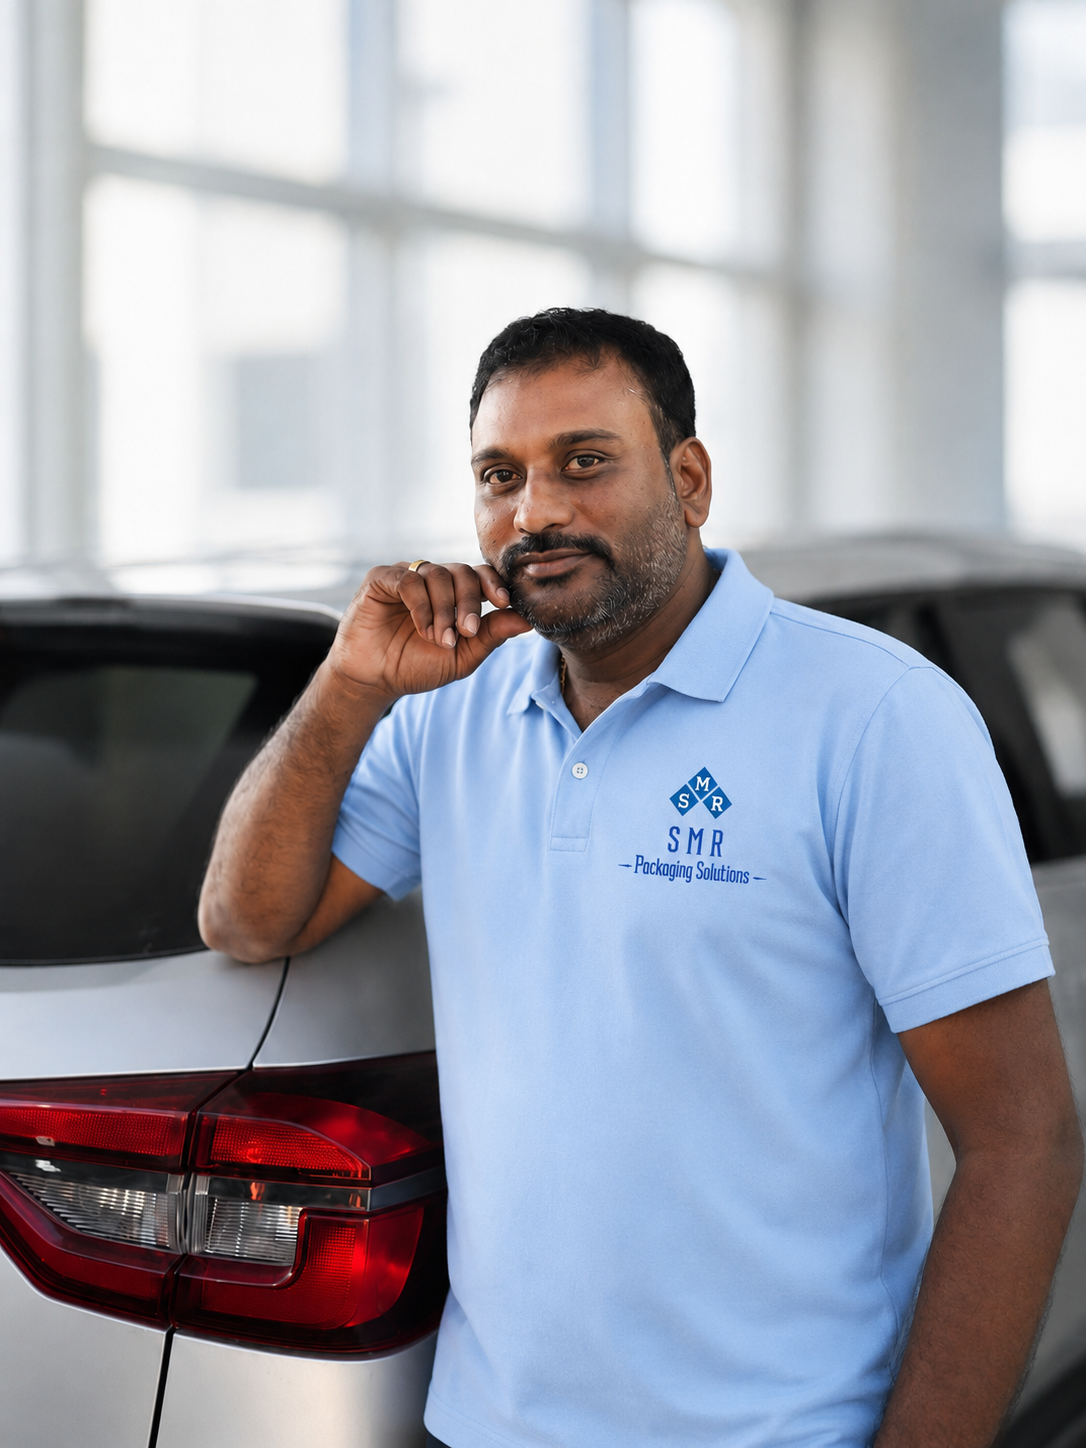
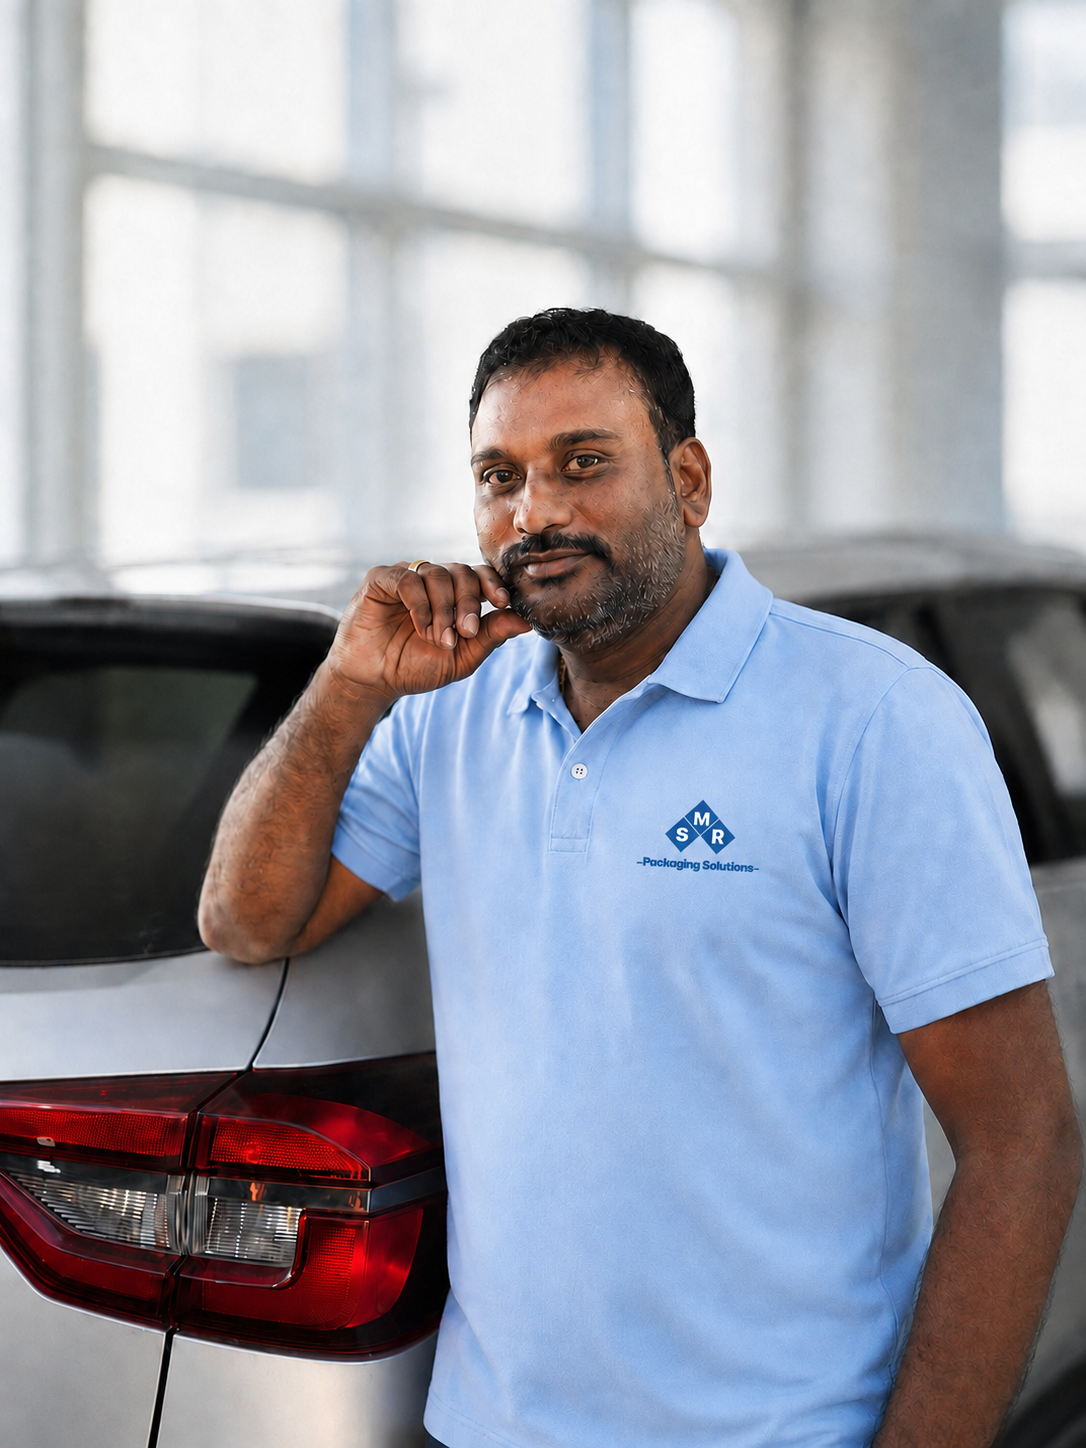
feat: add core components including Hero, Products, About, and supporting UI modals for packaging solutions landing page

diff --git a/src/components/Hero.tsx b/src/components/Hero.tsx
@@ -105,14 +105,16 @@ export const Hero: React.FC<HeroProps> = () => {
             {/* Visual Backplate */}
             <div className="absolute inset-0 bg-gradient-to-br from-blue-100/60 via-white/80 to-sky-50 rounded-3xl border border-white/80 shadow-2xl backdrop-blur-lg -rotate-1 scale-95" />
 
-            {/* Central Industrial Hero Image Showcase */}
-            <div className="relative w-full max-w-sm rounded-2xl overflow-hidden shadow-2xl border-4 border-white transform rotate-1 transition-transform hover:rotate-0 duration-500 z-10">
-              <img
-                src="https://images.unsplash.com/photo-1586528116311-ad8dd3c8310d?auto=format&fit=crop&w=800&q=80"
-                alt="Industrial packaging warehouse stretch film pallets"
-                className="w-full h-80 object-cover"
-              />
-              <div className="absolute inset-0 bg-gradient-to-t from-slate-950/85 via-slate-950/30 to-transparent flex flex-col justify-end p-5 text-white">
+            {/* Central Industrial Hero Image Showcase - Entire image visible */}
+            <div className="relative w-full max-w-sm rounded-2xl overflow-hidden shadow-2xl border-4 border-white transform rotate-1 transition-transform hover:rotate-0 duration-500 z-10 bg-slate-950">
+              <div className="h-64 sm:h-72 w-full p-2 flex items-center justify-center bg-slate-900">
+                <img
+                  src="https://images.unsplash.com/photo-1586528116311-ad8dd3c8310d?auto=format&fit=crop&w=800&q=80"
+                  alt="Industrial packaging warehouse stretch film pallets"
+                  className="w-full h-full object-contain rounded-xl"
+                />
+              </div>
+              <div className="p-4 bg-slate-950 text-white border-t border-slate-800">
                 <div className="flex items-center gap-1 text-amber-400 mb-1">
                   <i className="fi fi-sr-star text-sm text-amber-400" />
                   <i className="fi fi-sr-star text-sm text-amber-400" />
@@ -120,8 +122,8 @@ export const Hero: React.FC<HeroProps> = () => {
                   <i className="fi fi-sr-star text-sm text-amber-400" />
                   <i className="fi fi-sr-star text-sm text-amber-400" />
                 </div>
-                <h3 className="font-bold text-lg font-montserrat-700">Industrial Warehouse Consumables</h3>
-                <p className="text-xs text-slate-300 font-tiempos-italic">Kancheepuram & Greater Chennai Supply Chain</p>
+                <h3 className="font-bold text-base font-montserrat-700 text-white">Industrial Warehouse Consumables</h3>
+                <p className="text-xs text-slate-400">Kancheepuram & Greater Chennai Supply Chain</p>
               </div>
             </div>
 

diff --git a/src/components/About.tsx b/src/components/About.tsx
@@ -192,18 +192,22 @@ export const About: React.FC = () => {
           <div className="grid grid-cols-1 lg:grid-cols-12 items-center">
 
             {/* Left: MD Portrait Image Showcase (Col 5) */}
-            <div className="lg:col-span-5 relative h-80 lg:h-full min-h-[380px] bg-slate-900 overflow-hidden">
-              <img
-                src="/MD.png"
-                alt="Mr. S. Ranjith Kumar - Managing Director, SMR Packaging Solutions"
-                className="w-full h-full object-cover object-top"
-              />
-              <div className="absolute inset-0 bg-gradient-to-t from-slate-950 via-slate-950/30 to-transparent" />
+            <div className="lg:col-span-5 relative bg-slate-900 flex flex-col justify-between overflow-hidden h-full min-h-[420px] lg:min-h-[480px] rounded-t-3xl lg:rounded-tr-none lg:rounded-l-3xl">
+              <div className="relative flex-1 w-full h-80 sm:h-96 lg:h-full overflow-hidden">
+                <img
+                  src="/MD.png"
+                  alt="Mr. S. Ranjith Kumar - Managing Director, SMR Packaging Solutions"
+                  className="w-full h-full object-cover object-top"
+                />
 
-              {/* MD Name & Title Overlay */}
-              <div className="absolute bottom-6 left-6 right-6 text-white">
-                <h4 className="text-2xl font-extrabold font-montserrat-700">Mr. S. Ranjith Kumar</h4>
-                <p className="text-xs text-slate-300 font-medium">Managing Director & Founder • SMR Packaging Solutions</p>
+                {/* Subtle Professional Vignette Overlay */}
+                <div className="absolute inset-0 pointer-events-none bg-[radial-gradient(circle_at_50%_35%,_transparent_45%,_rgba(15,23,42,0.65)_100%)] shadow-[inset_0_0_40px_rgba(2,6,23,0.7)] z-10" />
+              </div>
+
+              {/* MD Name & Title Info Section */}
+              <div className="p-5 sm:p-6 bg-slate-950/95 border-t border-slate-800/80 text-white z-20 relative">
+                <h4 className="text-xl sm:text-2xl font-extrabold font-montserrat-700 tracking-tight text-white">Mr. S. Ranjith Kumar</h4>
+                <p className="text-xs text-brand-accent font-semibold mt-1">Managing Director & Founder • SMR Packaging Solutions</p>
               </div>
             </div>
 

diff --git a/src/components/ProductModal.tsx b/src/components/ProductModal.tsx
@@ -52,20 +52,22 @@ export const ProductModal: React.FC<ProductModalProps> = ({ product, onClose, on
               <X className="w-5 h-5" />
             </button>
 
-            {/* Top Banner Image */}
-            <div className="relative h-60 sm:h-72 w-full overflow-hidden bg-slate-900 shrink-0">
-              <img
-                src={product.image}
-                alt={product.name}
-                className="w-full h-full object-cover opacity-90"
-              />
-              <div className="absolute inset-0 bg-gradient-to-t from-slate-950 via-slate-950/40 to-transparent" />
+            {/* Top Banner Image - Fills box on all screen sizes */}
+            <div className="relative bg-slate-950 shrink-0 border-b border-slate-800">
+              <div className="relative h-64 sm:h-80 w-full p-0 flex items-center justify-center bg-slate-900">
+                <img
+                  src={product.image}
+                  alt={product.name}
+                  className="w-full h-full object-cover z-10"
+                />
+              </div>
 
-              <div className="absolute bottom-6 left-6 right-6 text-white">
-                <span className="px-3 py-1 rounded-full bg-brand-accent text-white text-xs font-bold uppercase tracking-wider mb-2 inline-block shadow-md">
+              {/* Title Header Bar */}
+              <div className="p-5 sm:p-6 bg-slate-900/95 border-t border-slate-800/80 text-white">
+                <span className="px-3 py-1 rounded-full bg-brand-accent text-white text-[11px] font-extrabold uppercase tracking-wider mb-2 inline-block shadow-md">
                   {product.category}
                 </span>
-                <h3 className="text-2xl sm:text-3xl font-extrabold tracking-tight">
+                <h3 className="text-2xl sm:text-3xl font-extrabold tracking-tight text-white font-montserrat-700">
                   {product.name}
                 </h3>
               </div>

diff --git a/src/components/Products.tsx b/src/components/Products.tsx
@@ -16,7 +16,7 @@ export const Products: React.FC<ProductsProps> = () => {
   return (
     <section id="products" className="py-20 lg:py-28 bg-white relative font-the-future">
       <div className="max-w-7xl mx-auto px-4 sm:px-6 lg:px-8">
-        
+
         {/* Section Header */}
         <div className="text-center max-w-3xl mx-auto mb-16">
           <motion.div
@@ -63,18 +63,18 @@ export const Products: React.FC<ProductsProps> = () => {
                 className="bg-white rounded-3xl border border-slate-200/90 shadow-sm hover:shadow-card-hover transition-all duration-200 flex flex-col overflow-hidden group cursor-pointer transform-gpu"
                 onClick={() => handleProductClick(product.name)}
               >
-                {/* Thumbnail Image */}
-                <div className="relative h-48 w-full overflow-hidden bg-slate-100">
+                {/* Thumbnail Image - Fills card header box on both mobile and laptop/desktop */}
+                <div className="relative h-64 sm:h-52 lg:h-56 w-full overflow-hidden bg-slate-100 flex items-center justify-center p-0">
                   <img
                     src={product.image}
                     alt={product.name}
                     loading="lazy"
                     className="w-full h-full object-cover group-hover:scale-105 transition-transform duration-300 transform-gpu"
                   />
-                  
+
                   {/* Badge */}
                   {product.badge && (
-                    <span className="absolute top-3 left-3 px-3 py-1 rounded-full bg-brand-primary text-white text-[10px] font-extrabold uppercase tracking-wider shadow-md">
+                    <span className="absolute top-3 left-3 px-3 py-1 rounded-full bg-brand-primary text-white text-[10px] font-extrabold uppercase tracking-wider shadow-md z-10">
                       {product.badge}
                     </span>
                   )}

diff --git a/src/components/Testimonials.tsx b/src/components/Testimonials.tsx
@@ -80,7 +80,7 @@ export const Testimonials: React.FC = () => {
                 <img
                   src={item.avatar}
                   alt={item.name}
-                  className="w-12 h-12 rounded-full object-cover border-2 border-brand-primary/20 shadow-sm"
+                  className="w-12 h-12 rounded-full object-contain bg-slate-100 p-0.5 border-2 border-brand-primary/20 shadow-sm"
                 />
                 <div>
                   <h4 className="text-base font-bold text-brand-secondary flex items-center gap-1.5">
